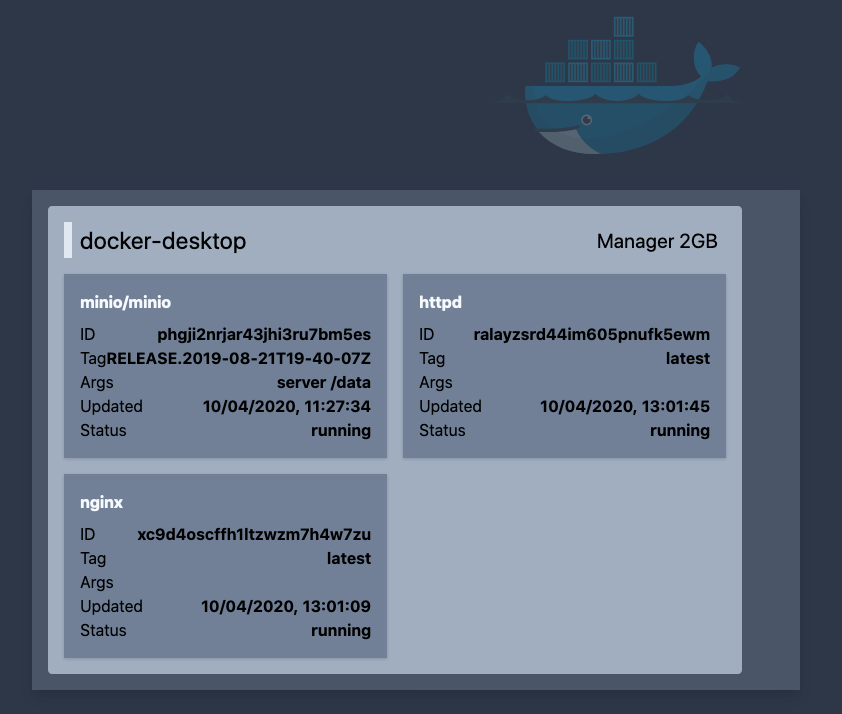
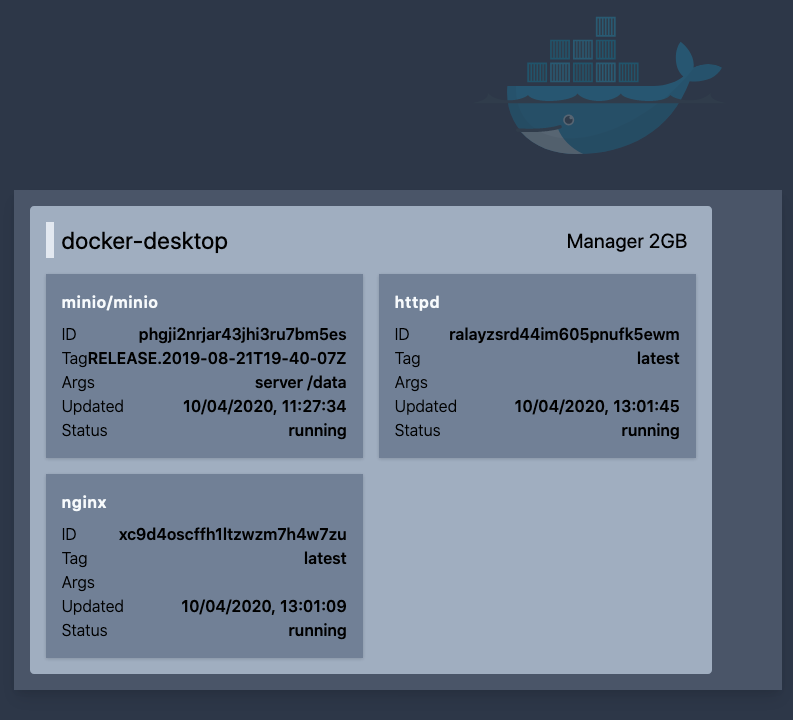
Some css tidying

diff --git a/public/app.css b/public/app.css
@@ -1,1 +1,1 @@
-/*! normalize.css v8.0.1 | MIT License | github.com/necolas/normalize.css */html{line-height:1.15;-webkit-text-size-adjust:100%}body{margin:0}img{border-style:none}[type=button],[type=reset],[type=submit]{-webkit-appearance:button}[type=button]::-moz-focus-inner,[type=reset]::-moz-focus-inner,[type=submit]::-moz-focus-inner{border-style:none;padding:0}[type=button]:-moz-focusring,[type=reset]:-moz-focusring,[type=submit]:-moz-focusring{outline:1px dotted ButtonText}[type=checkbox],[type=radio]{box-sizing:border-box;padding:0}[type=number]::-webkit-inner-spin-button,[type=number]::-webkit-outer-spin-button{height:auto}[type=search]{-webkit-appearance:textfield;outline-offset:-2px}[type=search]::-webkit-search-decoration{-webkit-appearance:none}::-webkit-file-upload-button{-webkit-appearance:button;font:inherit}[hidden],template{display:none}html{font-family:system-ui,-apple-system,BlinkMacSystemFont,Segoe UI,Roboto,Helvetica Neue,Arial,Noto Sans,sans-serif,Apple Color Emoji,Segoe UI Emoji,Segoe UI Symbol,Noto Color Emoji;line-height:1.5}*,:after,:before{box-sizing:border-box;border:0 solid #e2e8f0}img{border-style:solid}[role=button]{cursor:pointer}img,svg{display:block;vertical-align:middle}img{max-width:100%;height:auto}.container{width:100%}@media (min-width:640px){.container{max-width:640px}}@media (min-width:768px){.container{max-width:768px}}@media (min-width:1024px){.container{max-width:1024px}}@media (min-width:1280px){.container{max-width:1280px}}.bg-gray-500{background-color:#a0aec0}.bg-gray-600{background-color:#718096}.bg-gray-700{background-color:#4a5568}.bg-gray-800{background-color:#2d3748}.border-red-600{border-color:#e53e3e}.rounded{border-radius:.25rem}.border-b-2{border-bottom-width:2px}.border-l-8{border-left-width:8px}.flex{display:flex}.grid{display:grid}.flex-col{flex-direction:column}.items-center{align-items:center}.justify-end{justify-content:flex-end}.justify-between{justify-content:space-between}.font-bold{font-weight:700}.mx-auto{margin-left:auto;margin-right:auto}.mb-2{margin-bottom:.5rem}.mb-4{margin-bottom:1rem}.mt-8{margin-top:2rem}.opacity-25{opacity:.25}.p-4{padding:1rem}.px-2{padding-left:.5rem;padding-right:.5rem}.shadow{box-shadow:0 1px 3px 0 rgba(0,0,0,.1),0 1px 2px 0 rgba(0,0,0,.06)}.shadow-lg{box-shadow:0 10px 15px -3px rgba(0,0,0,.1),0 4px 6px -2px rgba(0,0,0,.05)}.text-gray-100{color:#f7fafc}.text-xl{font-size:1.25rem}.text-2xl{font-size:1.5rem}.capitalize{text-transform:capitalize}.w-full{width:100%}.gap-4{grid-gap:1rem;gap:1rem}.grid-cols-2{grid-template-columns:repeat(2,minmax(0,1fr))}
+/*! normalize.css v8.0.1 | MIT License | github.com/necolas/normalize.css */html{line-height:1.15;-webkit-text-size-adjust:100%}body{margin:0}img{border-style:none}[type=button],[type=reset],[type=submit]{-webkit-appearance:button}[type=button]::-moz-focus-inner,[type=reset]::-moz-focus-inner,[type=submit]::-moz-focus-inner{border-style:none;padding:0}[type=button]:-moz-focusring,[type=reset]:-moz-focusring,[type=submit]:-moz-focusring{outline:1px dotted ButtonText}[type=checkbox],[type=radio]{box-sizing:border-box;padding:0}[type=number]::-webkit-inner-spin-button,[type=number]::-webkit-outer-spin-button{height:auto}[type=search]{-webkit-appearance:textfield;outline-offset:-2px}[type=search]::-webkit-search-decoration{-webkit-appearance:none}::-webkit-file-upload-button{-webkit-appearance:button;font:inherit}[hidden],template{display:none}html{font-family:system-ui,-apple-system,BlinkMacSystemFont,Segoe UI,Roboto,Helvetica Neue,Arial,Noto Sans,sans-serif,Apple Color Emoji,Segoe UI Emoji,Segoe UI Symbol,Noto Color Emoji;line-height:1.5}*,:after,:before{box-sizing:border-box;border:0 solid #e2e8f0}img{border-style:solid}[role=button]{cursor:pointer}img,svg{display:block;vertical-align:middle}img{max-width:100%;height:auto}.container{width:100%}@media (min-width:640px){.container{max-width:640px}}@media (min-width:768px){.container{max-width:768px}}@media (min-width:1024px){.container{max-width:1024px}}@media (min-width:1280px){.container{max-width:1280px}}.bg-gray-500{background-color:#a0aec0}.bg-gray-600{background-color:#718096}.bg-gray-700{background-color:#4a5568}.bg-gray-800{background-color:#2d3748}.border-red-600{border-color:#e53e3e}.rounded{border-radius:.25rem}.border-b-2{border-bottom-width:2px}.border-l-8{border-left-width:8px}.flex{display:flex}.grid{display:grid}.flex-col{flex-direction:column}.items-center{align-items:center}.justify-end{justify-content:flex-end}.justify-between{justify-content:space-between}.font-light{font-weight:300}.font-semibold{font-weight:600}.mx-auto{margin-left:auto;margin-right:auto}.mb-2{margin-bottom:.5rem}.mb-4{margin-bottom:1rem}.mt-8{margin-top:2rem}.opacity-25{opacity:.25}.p-4{padding:1rem}.px-2{padding-left:.5rem;padding-right:.5rem}.shadow{box-shadow:0 1px 3px 0 rgba(0,0,0,.1),0 1px 2px 0 rgba(0,0,0,.06)}.shadow-lg{box-shadow:0 10px 15px -3px rgba(0,0,0,.1),0 4px 6px -2px rgba(0,0,0,.05)}.text-gray-100{color:#f7fafc}.text-xl{font-size:1.25rem}.text-2xl{font-size:1.5rem}.capitalize{text-transform:capitalize}.tracking-wider{letter-spacing:.05em}.w-full{width:100%}.gap-4{grid-gap:1rem;gap:1rem}.grid-cols-2{grid-template-columns:repeat(2,minmax(0,1fr))}

diff --git a/public/index.html b/public/index.html
@@ -45,38 +45,38 @@
                 <template x-for="task in node.tasks" x-key="task.ID">
                   <div class="bg-gray-600 shadow flex flex-col p-4">
                     <span
-                      class="font-bold text-gray-100 mb-2"
+                      class="font-semibold tracking-wider text-gray-100 mb-2"
                       :class="{ 'border-b-2 border-red-600': task.Status.State !== 'running' }"
                       x-text="`${task.Spec.ContainerSpec.Image.split(':')[0]}`"
                     ></span>
                     <span class="flex items-center justify-between">
-                      <span>ID</span>
-                      <span x-text="task.ID" class="font-bold"></span>
+                      <span class="font-light">ID</span>
+                      <span x-text="task.ID" class="font-semibold"></span>
                     </span>
                     <span class="flex items-center justify-between">
-                      <span>Tag</span>
+                      <span class="font-light">Tag</span>
                       <span
                         x-text="task.Spec.ContainerSpec.Image.split(':')[1].split('@')[0]"
-                        class="font-bold"
+                        class="font-semibold"
                       ></span>
                     </span>
                     <span class="flex items-center justify-between">
-                      <span>Args</span>
+                      <span class="font-light">Args</span>
                       <span
                         x-text="task.Spec.ContainerSpec.hasOwnProperty('Args') ? task.Spec.ContainerSpec.Args.join(' ') : ''"
-                        class="font-bold"
+                        class="font-semibold"
                       ></span>
                     </span>
                     <span class="flex items-center justify-between">
-                      <span>Updated</span>
+                      <span class="font-light">Updated</span>
                       <span
                         x-text="new Date(task.UpdatedAt ? Date.parse(task.UpdatedAt) : Date.parse(task.CreatedAt)).toLocaleString()"
-                        class="font-bold"
+                        class="font-semibold"
                       ></span>
                     </span>
                     <span class="flex items-center justify-between">
-                      <span>Status</span>
-                      <span x-text="task.Status.State" class="font-bold"></span>
+                      <span class="font-light">Status</span>
+                      <span x-text="task.Status.State" class="font-semibold"></span>
                     </span>
                   </div>
                 </template>
